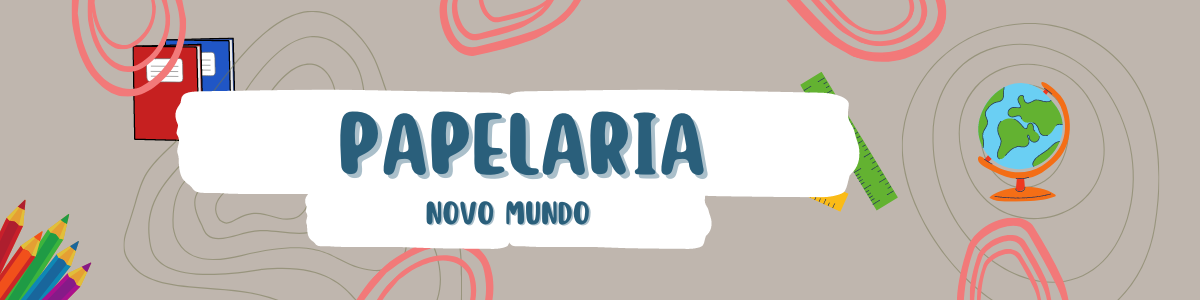
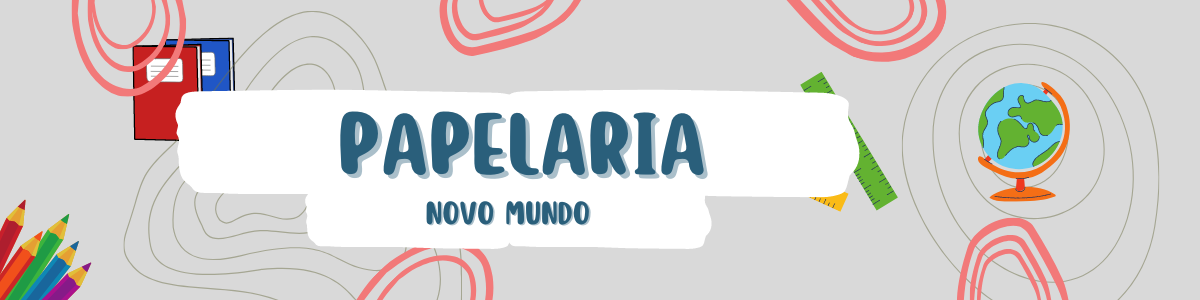
mudança

diff --git a/PaginaPrincipal/style.css b/PaginaPrincipal/style.css
@@ -1,7 +1,8 @@
-body {
+body{
     background-color: #D9D9D9;
    
 }
+
 
 
 header {
@@ -197,8 +198,9 @@ background-position: center;
 .produtos {
     display: inline-flex;
     justify-content: space-evenly;
-    margin: 10px;
+    width: 100%;
     margin-bottom: 20px;
+    background-color: #D9D9D9;
 
 }
 .produto-destaque{
